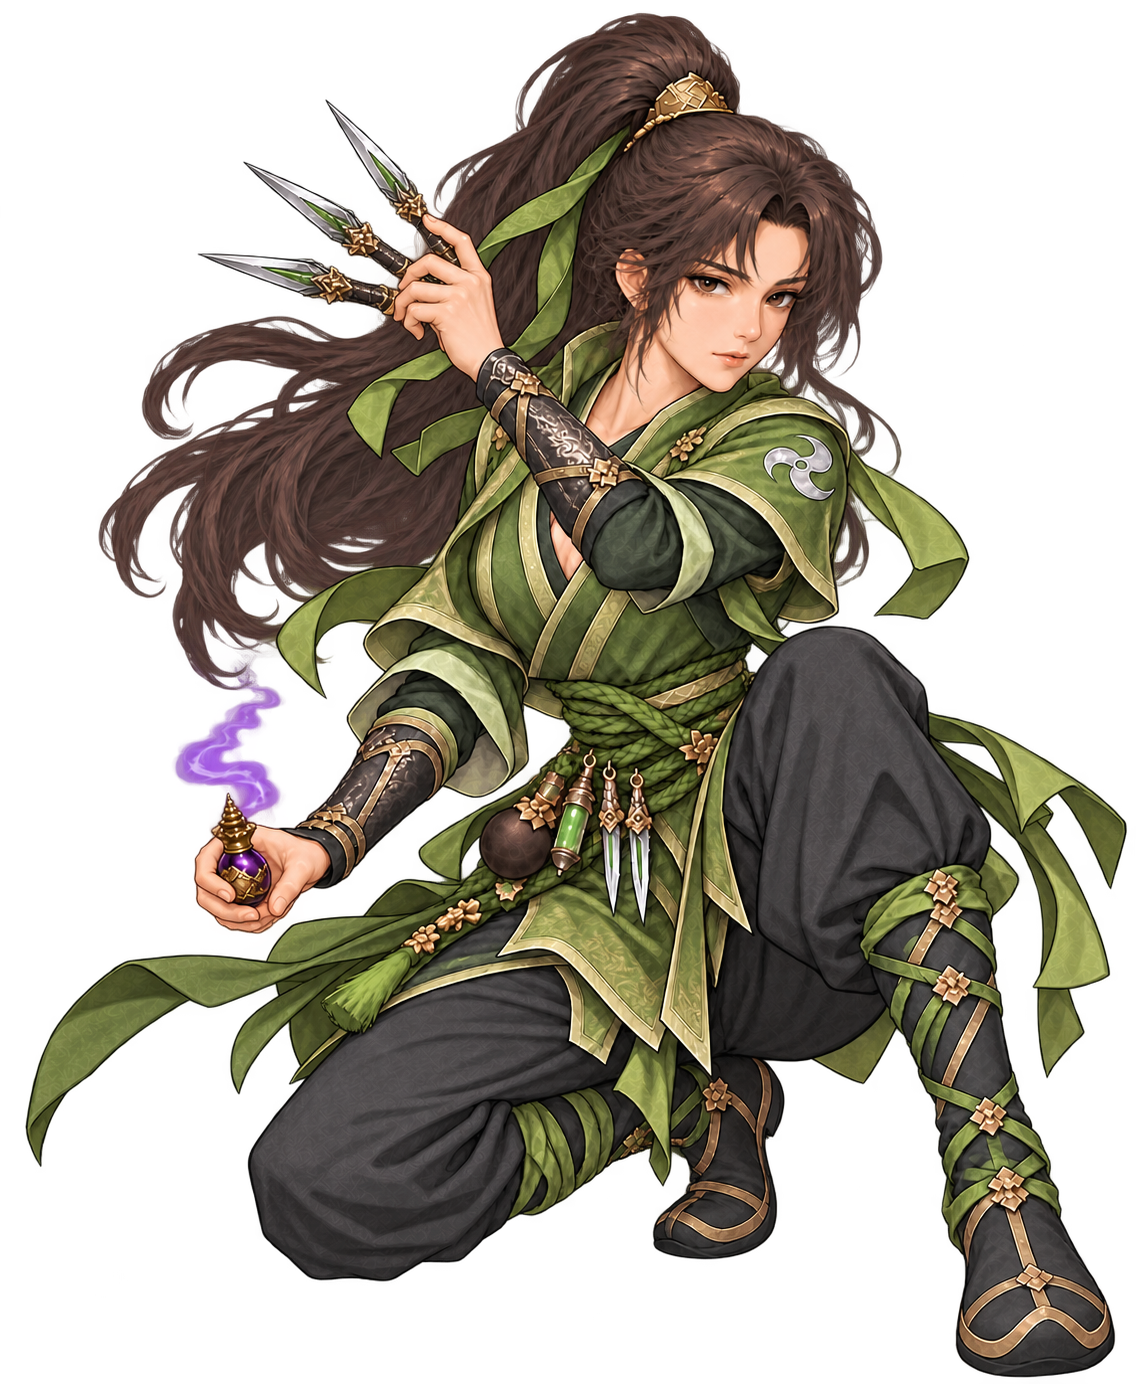
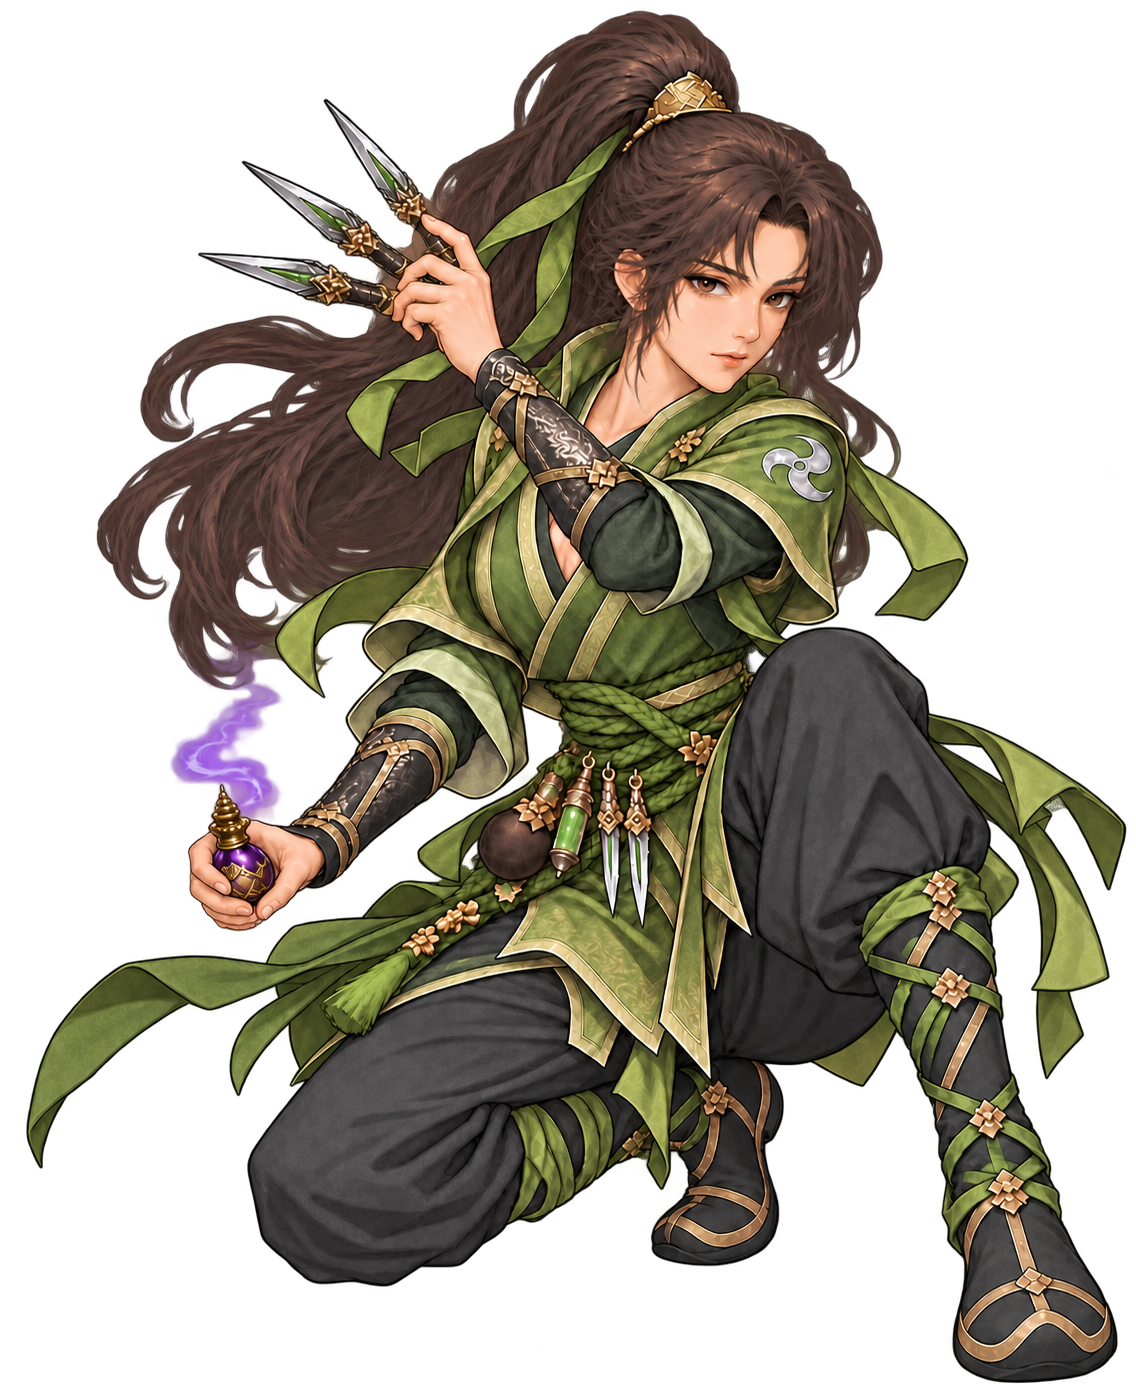
art: correct Sichuan bottle grips and male proportions

diff --git a/docs/wardrobe.html b/docs/wardrobe.html
@@ -113,11 +113,11 @@
   document.querySelectorAll('[data-description]').forEach(button=>button.addEventListener('click',()=>{descriptionGender=button.dataset.description;choose(entries.find(entry=>entry.id===selectedId),false);}));
   async function load() {
     try {
-      const response=await fetch('assets/outfits-v5/manifest.json?v=20261028-six-refinements', {cache:'no-store'}); if(!response.ok)throw new Error('manifest');
+      const response=await fetch('assets/outfits-v5/manifest.json?v=20261028-sichuan-hands-body', {cache:'no-store'}); if(!response.ok)throw new Error('manifest');
       const male=await response.json();
       const valid=e=>e&&typeof e.id==='string'&&typeof e.name==='string'&&typeof e.file==='string'&&/^[a-z0-9_-]+\.png$/i.test(e.file);
       entries=(male.entries||[]).filter(valid); if(!entries.length)throw new Error('empty');
-      let female={entries:[]}; try {const result=await fetch('assets/outfits-female-v1/manifest.json?v=20261028-six-refinements', {cache:'no-store'});if(result.ok)female=await result.json();}catch {}
+      let female={entries:[]}; try {const result=await fetch('assets/outfits-female-v1/manifest.json?v=20261028-sichuan-hands-body', {cache:'no-store'});if(result.ok)female=await result.json();}catch {}
       const pending=(female.entries||[]).filter(valid);
       femaleEntries=new Map(pending.map(entry=>[entry.id,{...entry,ready:entry.status!=='pending'}]));
       $('completion').textContent='백의 + '+(entries.length-1)+'세력 · 남녀 의상';
